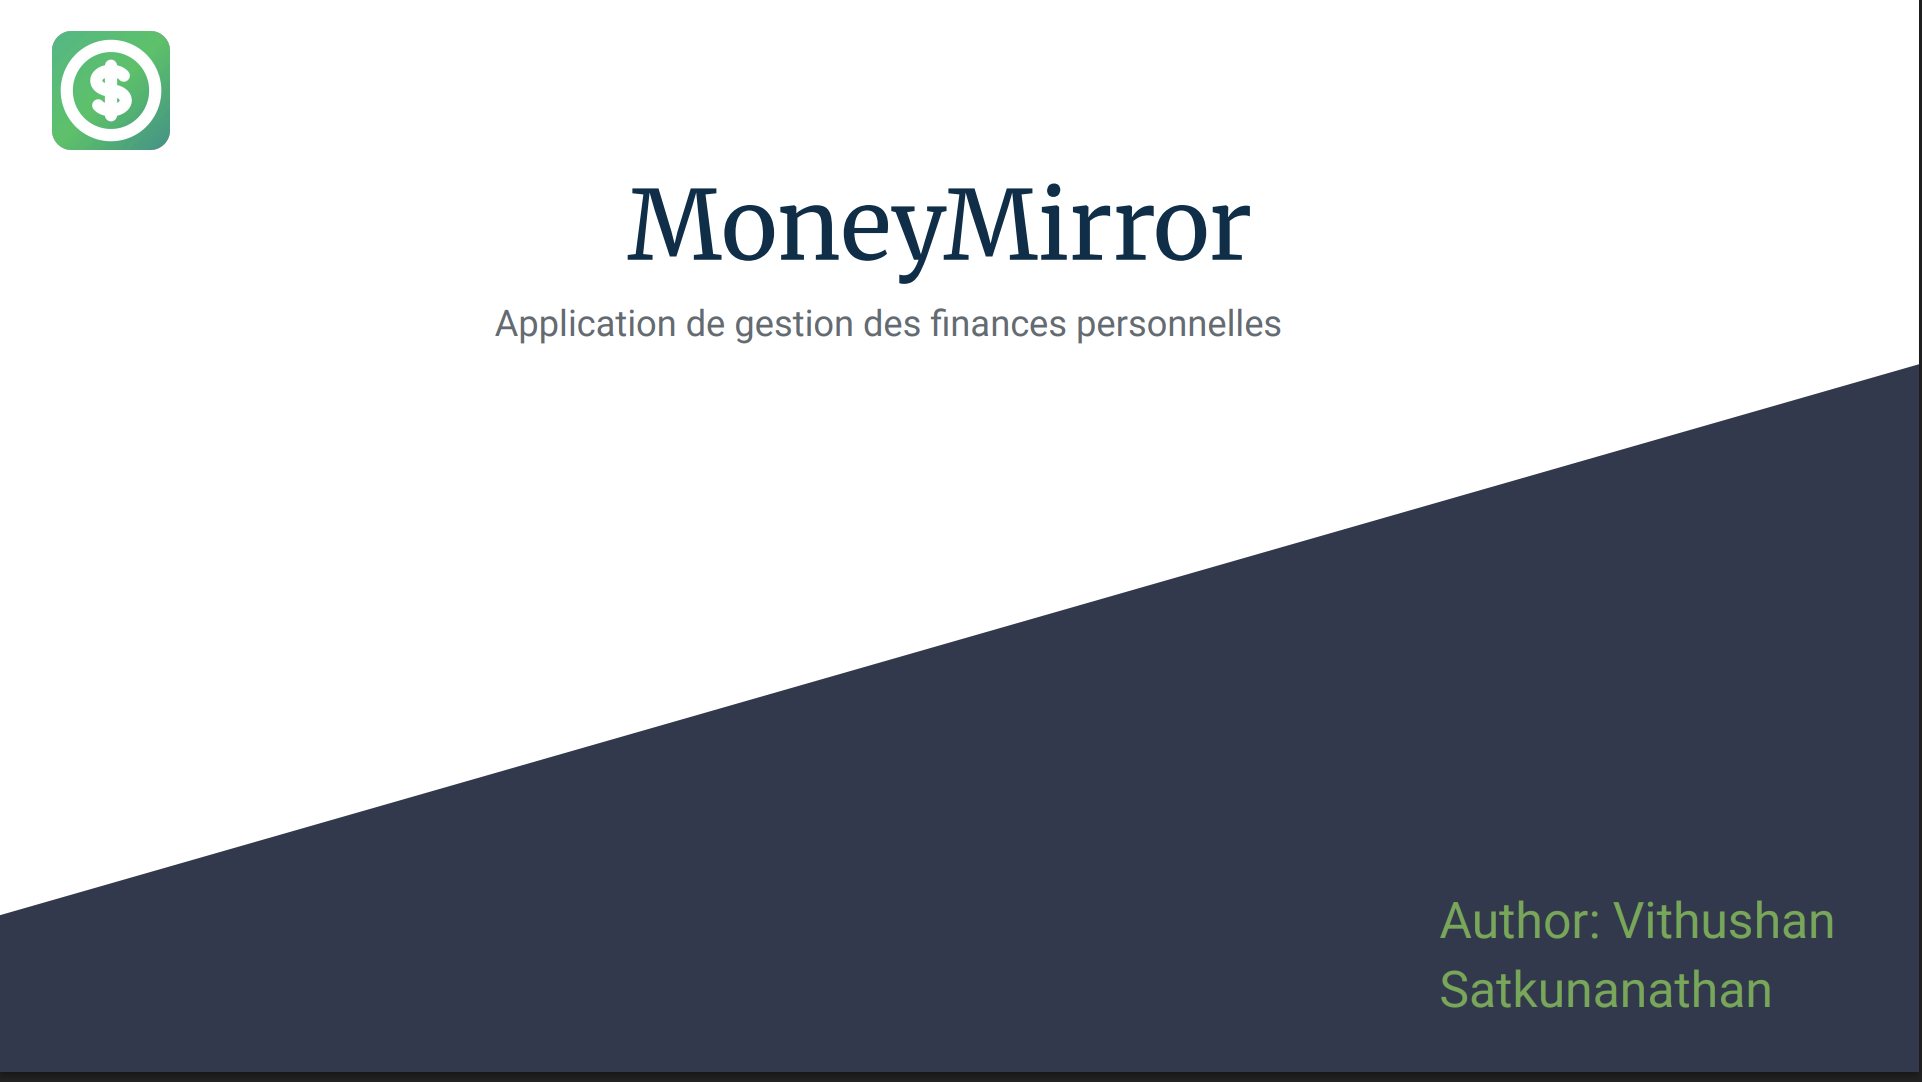
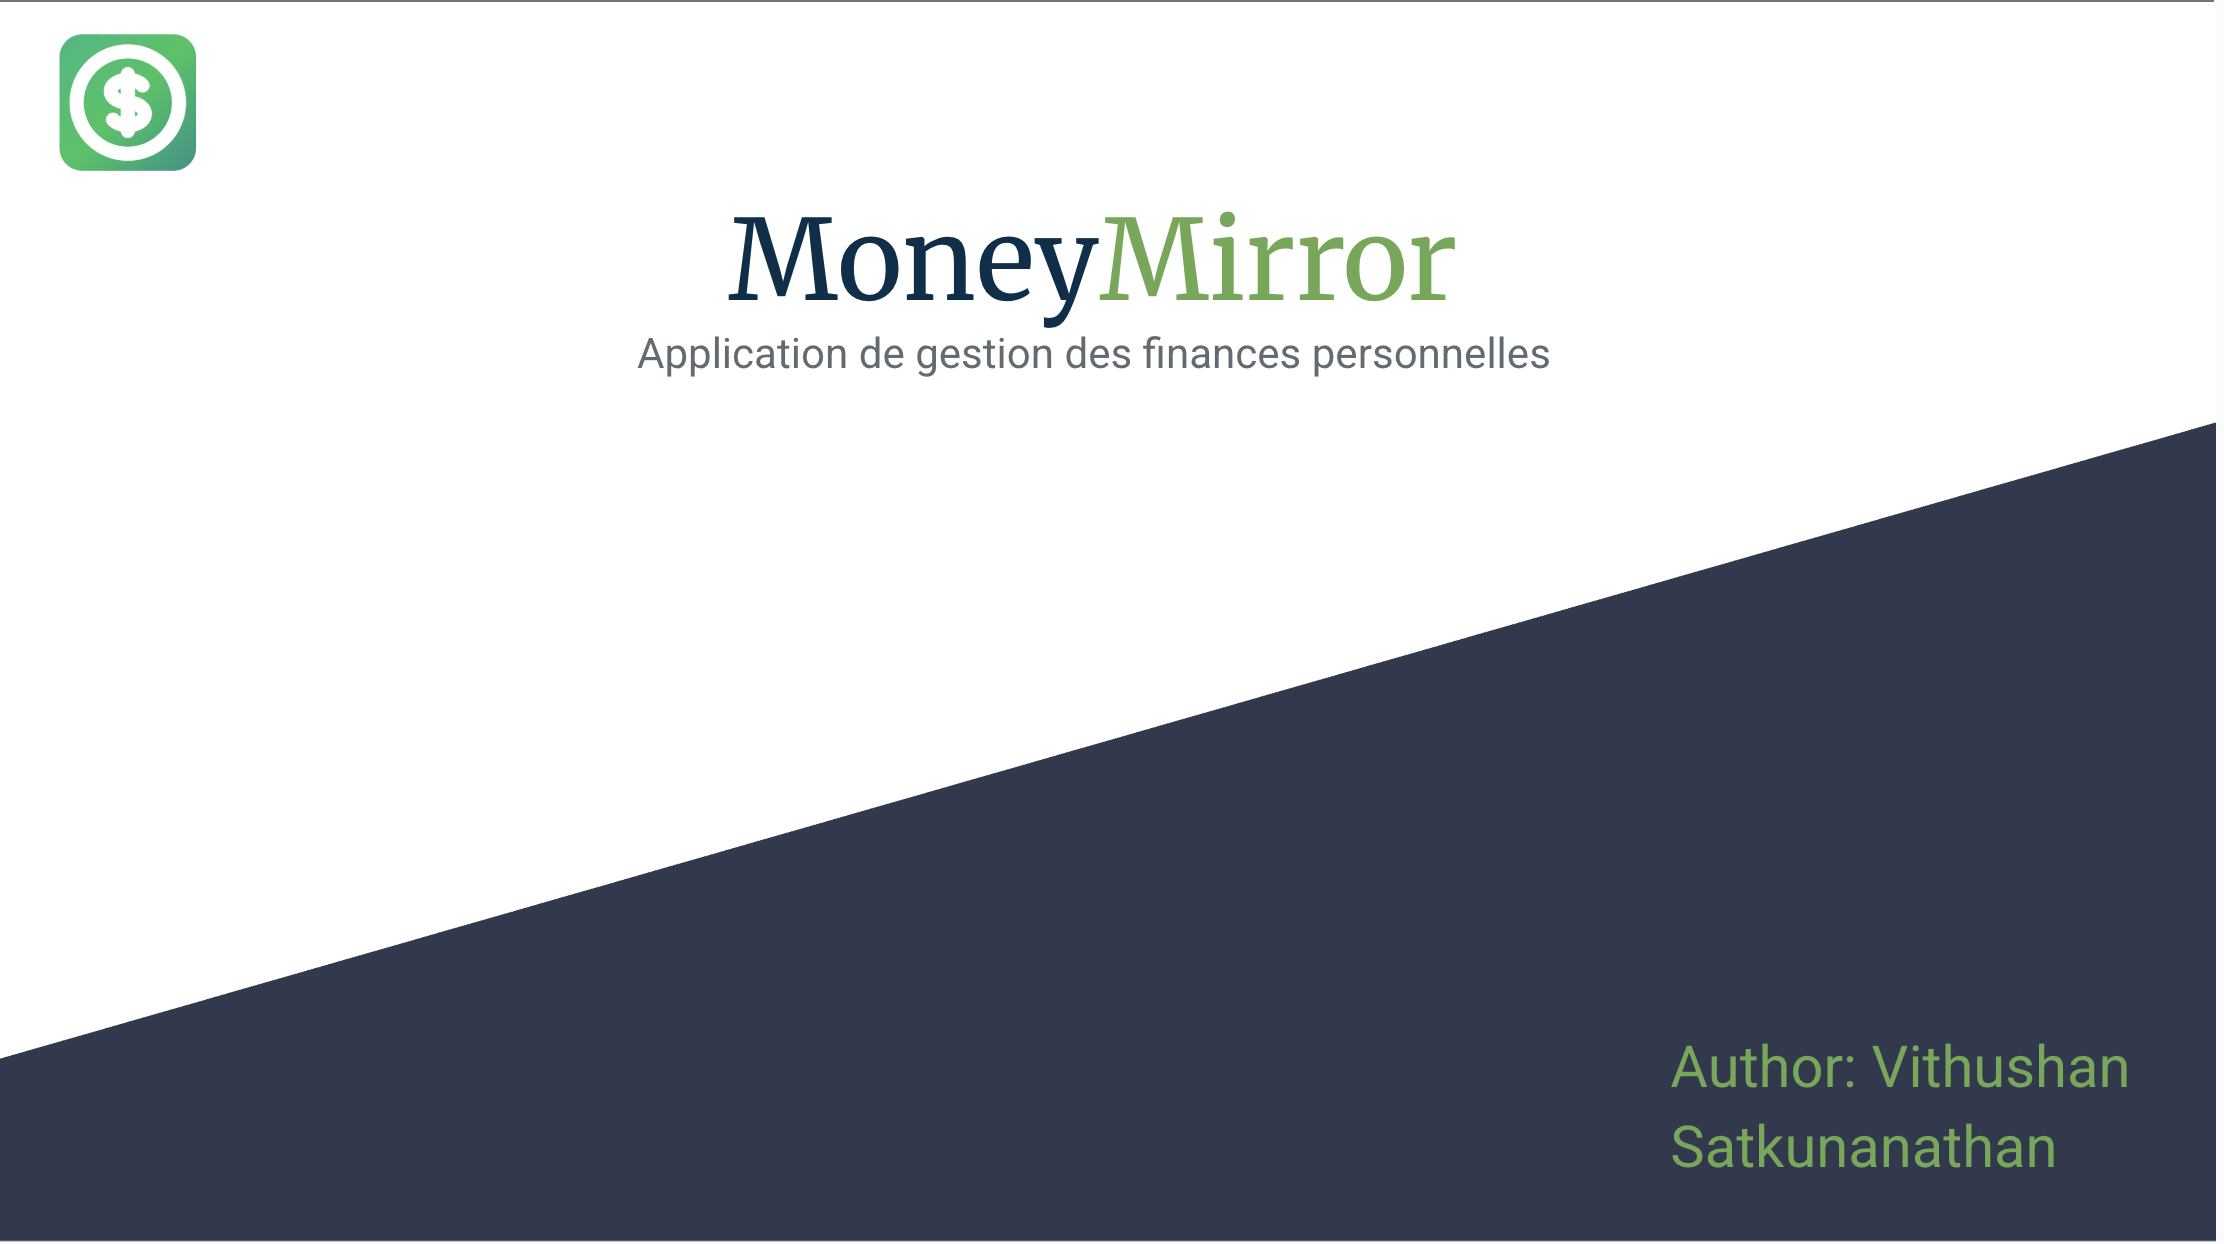
replace hero image with corrected version; cache-bust to v=4

diff --git a/index.html b/index.html
@@ -34,7 +34,7 @@
     <section class="hero">
         <div class="container">
             <div class="hero-content">
-                <h1 class="fade-in">MoneyMirror</h1>
+                <h1 class="fade-in"><span class="money-text"></span>Money</span><span class="mirror-text">Mirror</span></h1>
                 <p class="hero-subtitle fade-in-delay-1">Prenez le contrôle de vos finances personnelles</p>
                 <p class="hero-description fade-in-delay-2">
                     Une application moderne et intuitive pour suivre vos dépenses,
@@ -51,7 +51,7 @@
             </div>
             <div class="hero-image fade-in-delay-2">
                 <!-- cache-bust query parameter to force browsers to fetch the latest image -->
-                <img src="images/hero-appFr.png?v=3" alt="MoneyMirror Application" class="app-screenshot">
+                <img src="images/hero-appFr.png?v=4" alt="MoneyMirror Application" class="app-screenshot">
             </div>
         </div>
         <div class="scroll-indicator">
